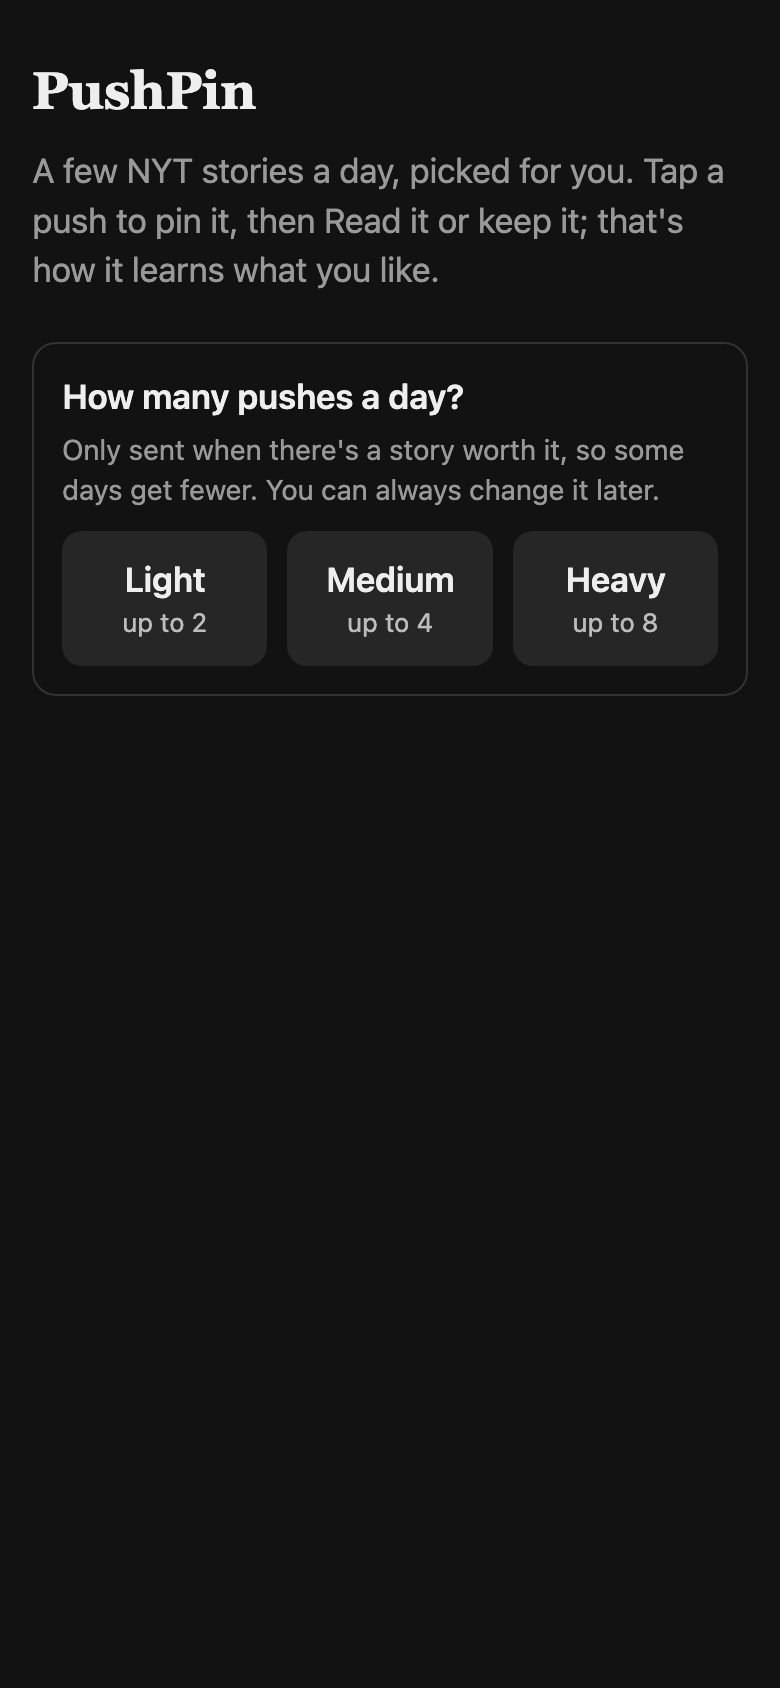
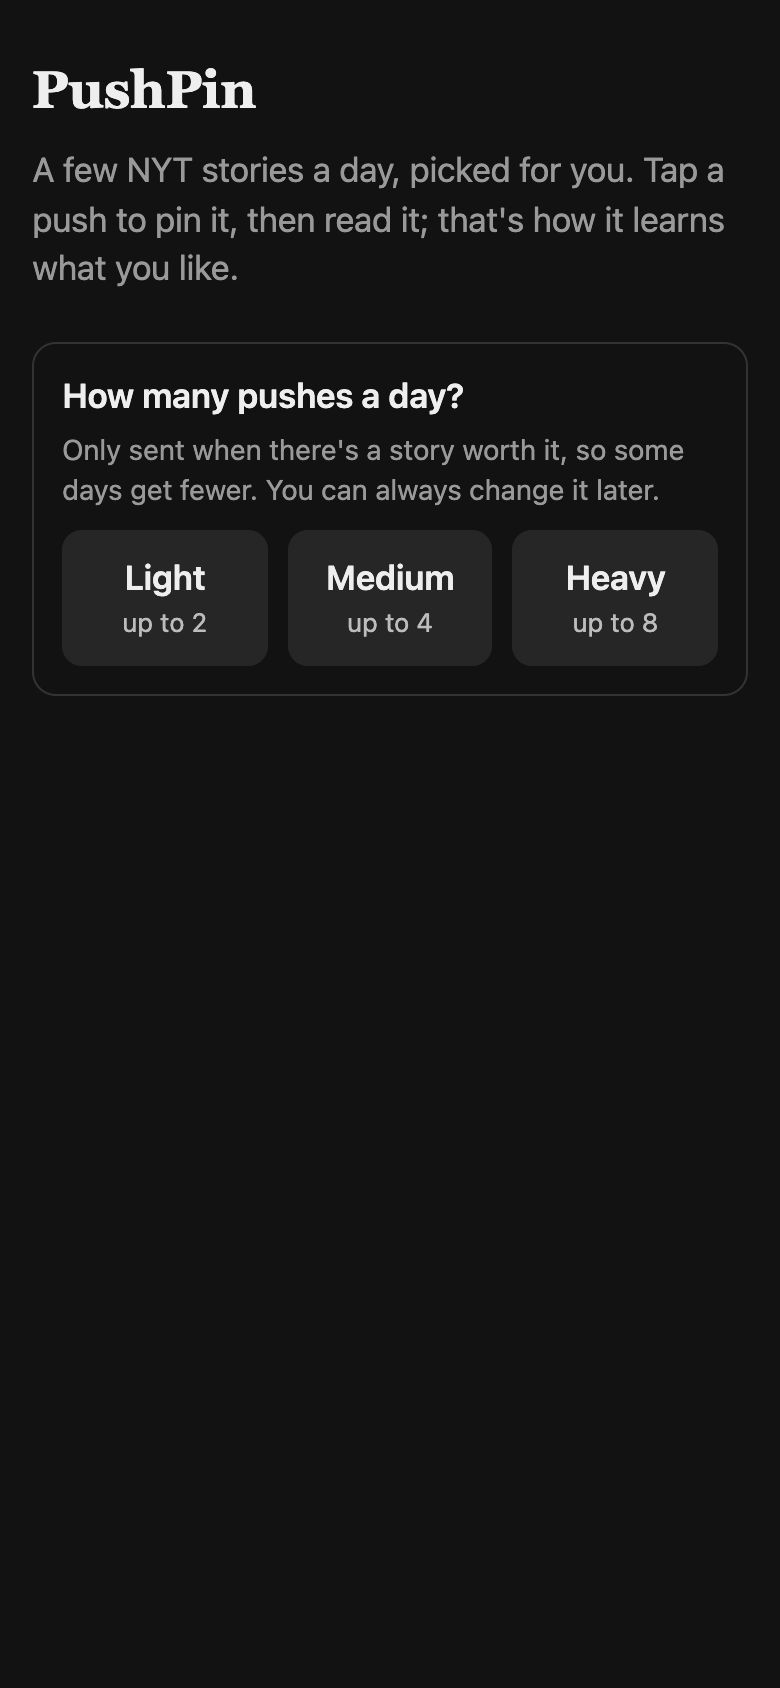
Start page: 'Tap a push to pin it, then read it' (no more 'or keep it'); welcome screenshot retaken

diff --git a/src/pushpin/cards.py b/src/pushpin/cards.py
@@ -172,7 +172,7 @@ def volume_picker(current: str | None, caps: dict | None = None, ask: bool = Fal
 def start_page(reader: dict | None, caps: dict | None = None) -> str:
     """The welcome push's page: pick how many pushes a day, before the first real one."""
     return page(f"""<h1>PushPin</h1><p class="abstract">A few NYT stories a day, picked for you. Tap a
-push to pin it, then Read it or keep it; that's how it learns what you like.</p>
+push to pin it, then read it; that's how it learns what you like.</p>
 {volume_picker(None, caps, ask=True)}{OWNER_SCRIPT}""")
 
 
